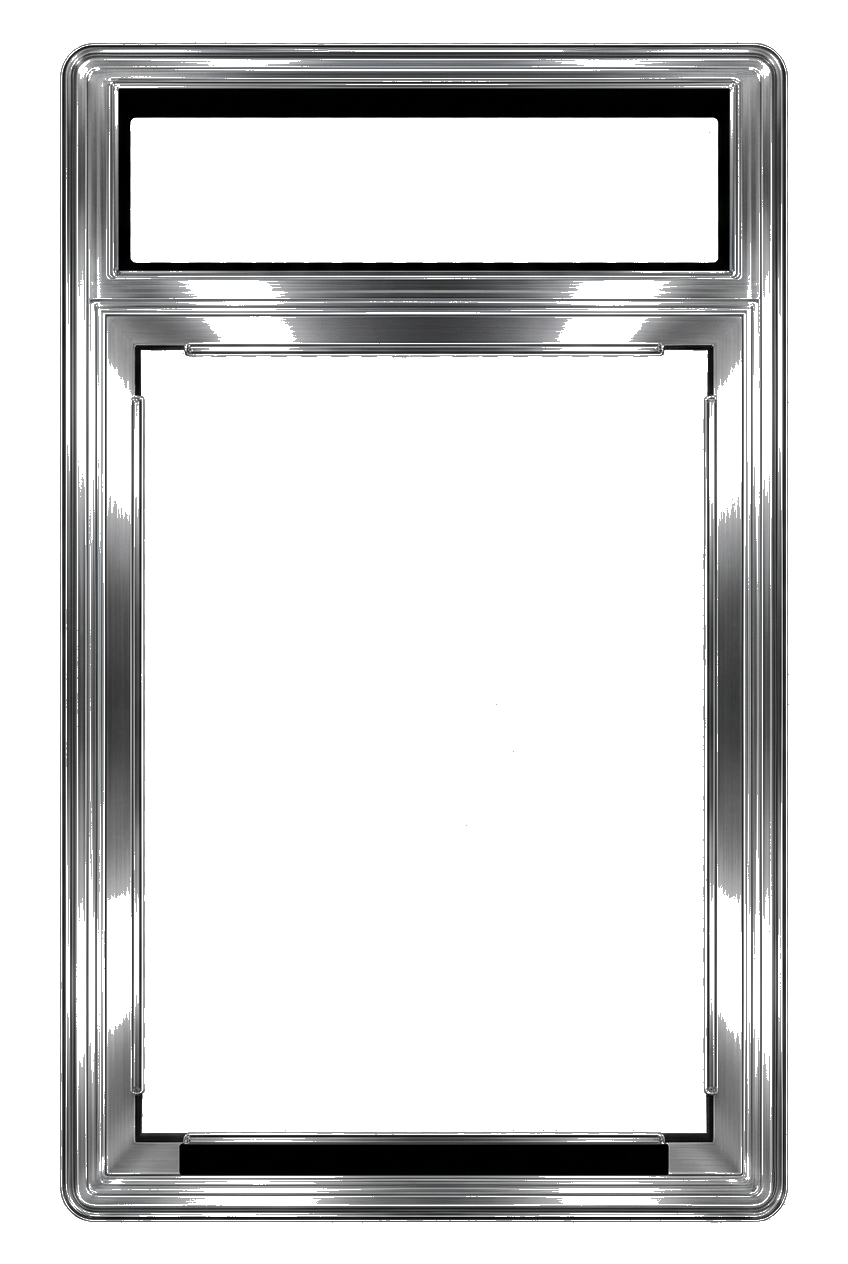
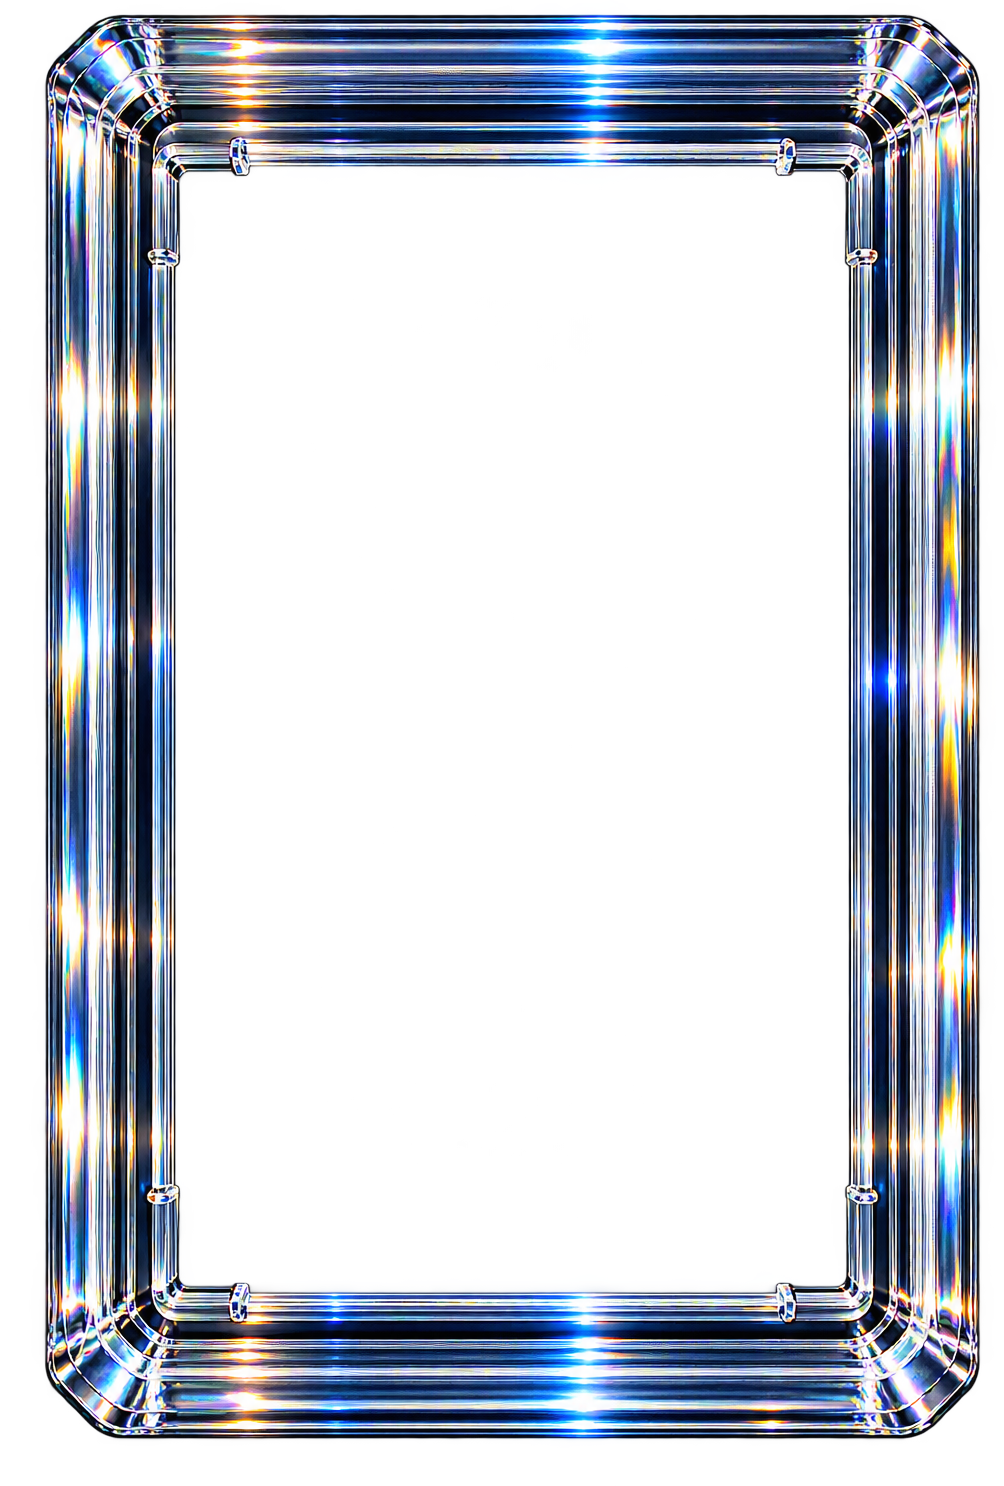
Real PSD chrome slab frame — card slots into window precisely

diff --git a/app/globals.css b/app/globals.css
@@ -697,33 +697,42 @@ a { color: inherit; text-decoration: none; }
   letter-spacing: 0.08em;
 }
 
-/* Card window — card photo behind, slab frame on top */
+/* ─── Real PSD chrome slab case ─────────────────────────
+   Frame canvas: 1024×1536
+   Card slot: left=18%, top=13.2%, w=64.6%, h=72.5%
+   Structure: frame PNG is the base, card sits inside slot
+──────────────────────────────────────────────────────── */
 .card-sleeve-window {
   position: relative;
   flex: 1;
-  background: #07090f;
   overflow: visible;
-  border-radius: 0 0 4px 4px;
+  background: transparent;
 }
-.card-behind {
+
+/* The chrome frame PNG fills the window area */
+.slab-overlay {
   position: absolute;
   inset: 0;
   width: 100%;
   height: 100%;
-  object-fit: contain;
-  object-position: center;
-  display: block;
-  z-index: 1;
-}
-/* Slab frame overlay — chrome border PNG sits on top of card */
-.slab-overlay {
-  position: absolute;
-  top: -18%;
-  left: -14%;
-  width: 128%;
-  height: 136%;
+  object-fit: fill;
   pointer-events: none;
   z-index: 2;
-  object-fit: fill;
+  display: block;
+}
+
+/* Card photo sits in the frame's window slot
+   PSD slot: left=18%, top=13.2%, w=64.6%, h=72.5% of frame */
+.card-behind {
+  position: absolute;
+  left: 18%;
+  top: 13.2%;
+  width: 64.6%;
+  height: 72.5%;
+  object-fit: cover;
+  object-position: center top;
+  display: block;
+  z-index: 1;
+  border-radius: 2px;
 }
 
